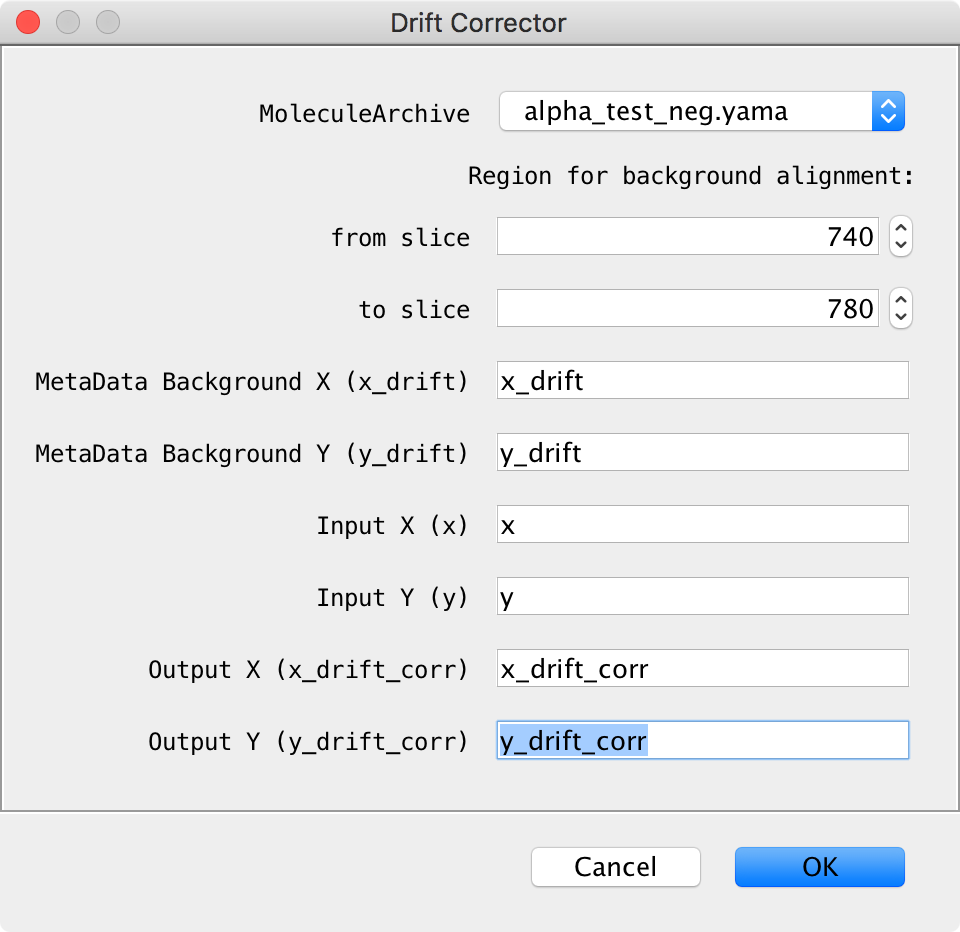
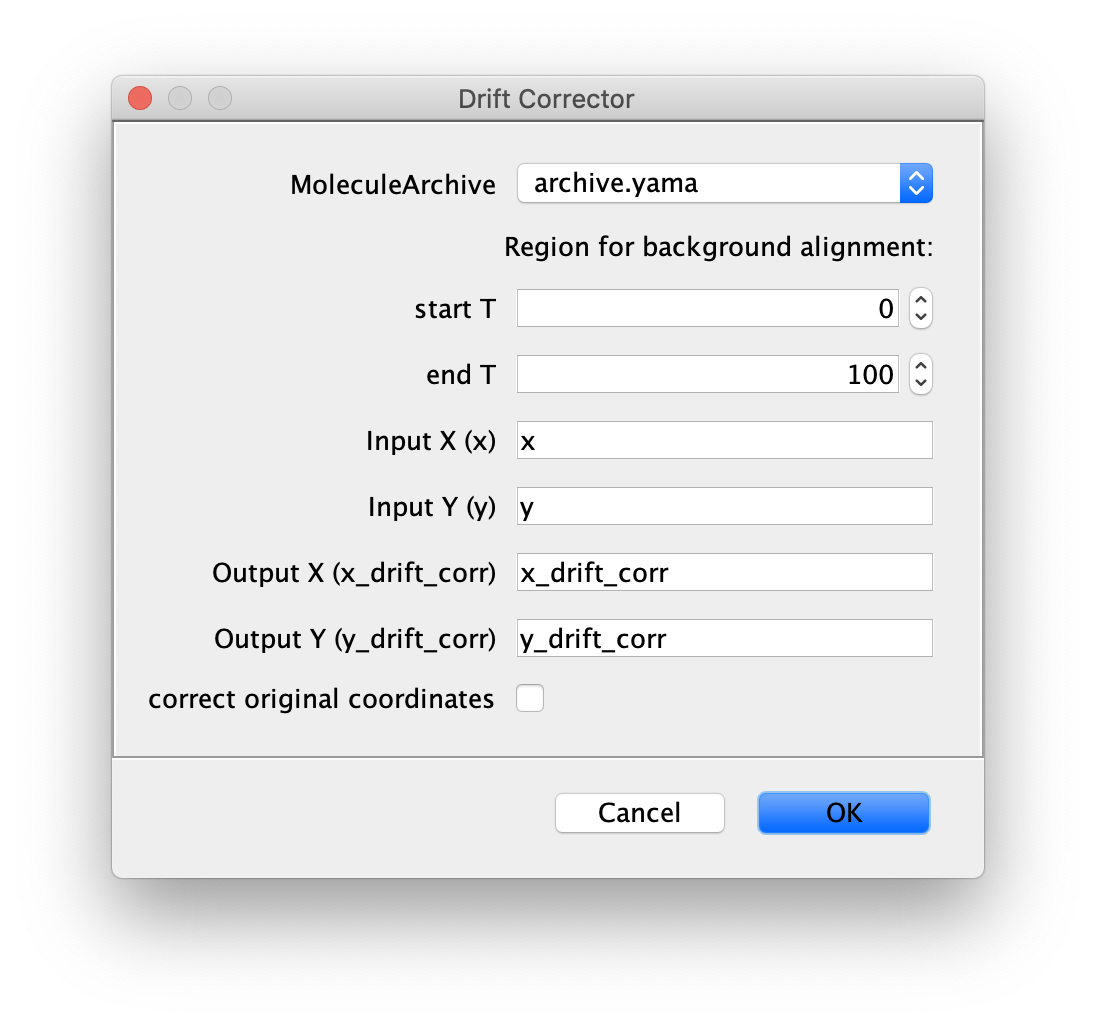
OME modifications to docs

diff --git a/docs/molecule/DriftCorrector.md b/docs/molecule/DriftCorrector.md
@@ -3,23 +3,21 @@ layout: molecule
 title: Drift Corrector
 permalink: /docs/molecule/DriftCorrector/index.html
 ---
-This command corrects all molecules for sample drift using the x_drift and y_drift information in each ImageMetaData record generated using the [DriftCalculator](../DriftCalculator). This is done in a manner such that each molecule is corrected using the drift in its ImageMetaData record.
+This command corrects all molecules for sample drift using the drift values in the metadata generated using the [DriftCalculator](../DriftCalculator). By doing so it generates new columns for each molecule table listing 'x_drift_corr' and 'y_drift_corr'.
 
 Background region start and end points are also required. The mean of this region is subtracted from the whole trace, effectively making it approximately zero. This procedure is independent of the drift correction, which is conducted before hand for all rows in the molecule table.
 
-The input and output columns can be changed to apply multiple corrections in sequence or correct for different kinds of background independently.
 
 ##### Inputs
 
-* *MoleculeArchive* - MoleculeArchive for which drift will be corrected. The drift will be subtracted from the x and y columns for each molecule using the corresponding drift information in the ImageMetaData record.
-* *from slice* - The first slice of the background region.
-* *to slice* - The last slice of the background region.
-* *MetaData Background X (x_drift)* - X column in the ImageMetaData Table to use for background correction. Usually this is x_drift.
-* *MetaData Background Y (y_drift)* - Y column in the ImageMetaData Table to use for background correction. Usually this is y_drift.
-* *Input X (x)* - X column to correct. Usually this is just x.
-* *Input Y (y)* - Y column to correct. Usually this is just y.
-* *Output X (x_drift_corr)* - The new output x column added to the DataTable with the background corrected trace. Usually this is x_drift_corr.
-* *Output Y (y_drift_corr)* - The new output y column added to the DataTable with the background corrected trace. Usually this is y_drift_corr.
+* *MoleculeArchive* - MoleculeArchive for which drift will be corrected. The drift will be subtracted from the x and y columns for each molecule using the corresponding drift information in the metadata record.
+* *start T* - The first time point of the background region.
+* *end T* - The last time point of the background region.
+* *Input X (x)* - X-coordinates to be corrected. Usually this is just x.
+* *Input Y (y)* - Y-coordinates to be corrected. Usually this is just y.
+* *Output X (x_drift_corr)* - The new output x column added to the table with the background corrected trace. Usually this is x_drift_corr.
+* *Output Y (y_drift_corr)* - The new output y column added to the table with the background corrected trace. Usually this is y_drift_corr.
+* *correct original coordinates* - Tick in case the original coordinates should be overwitten (not advised).
 
 <img align='center' src='{{site.baseurl}}/docs/molecule/img/Drift Corrector.png' width='450' />
 
@@ -27,7 +25,7 @@ The input and output columns can be changed to apply multiple corrections in seq
 
 * The MoleculeArchive provided as Input is modified. The drift is subtracted from the x and y columns to generate x_drift_corr and y_drift_corr. Column names will vary depending on settings...
 
-<img align='center' src='{{site.baseurl}}/docs/molecule/img/MoleculeArchive molecule drift columns.png' width='800' />
+<img align='center' src='{{site.baseurl}}/docs/molecule/img/img5' width='800' />
 
 ### How to run this Command from a groovy script
 

diff --git a/docs/molecule/DriftCalculator.md b/docs/molecule/DriftCalculator.md
@@ -3,7 +3,7 @@ layout: molecule
 title: Drift Calculator
 permalink: /docs/molecule/DriftCalculator/index.html
 ---
-This command calculates the sample drift given a MoleculeArchive and a tag corresponding to all immobile molecules. Then calculates the mean or median x and y position for each slice from those immobile molecules and places the results into the metadata as x_drift and y_drift.
+This command calculates the sample drift given a MoleculeArchive and a tag corresponding to all immobile molecules. Then calculates the mean or median x and y position for each slice from those immobile molecules and places the results into the metadata specified per plane as xDrift, yDrift and zDrift.
 
 The command is intended to be used together with the [DriftCorrector](../DriftCorrector). First, you calculate the drift with this command and then you correct for it using the [DriftCorrector](../DriftCorrector).
 

diff --git a/docs/molecule/AddTime.md b/docs/molecule/AddTime.md
@@ -18,7 +18,7 @@ This commands adds a column to the molecule tables to convert time points (T) to
 #### Output
 * *MoleculeArchive* - Modified MoleculeArchive that was provided as input, the column 'Time (s)' is added to each molecule table.
 
-<img align='center' src='{{site.baseurl}}/docs/molecule/img/img3.png' width='450' />
+<img align='center' src='{{site.baseurl}}/docs/molecule/img/img3.png' width='650' />
 
 
 ### How to run this Command from a groovy script
